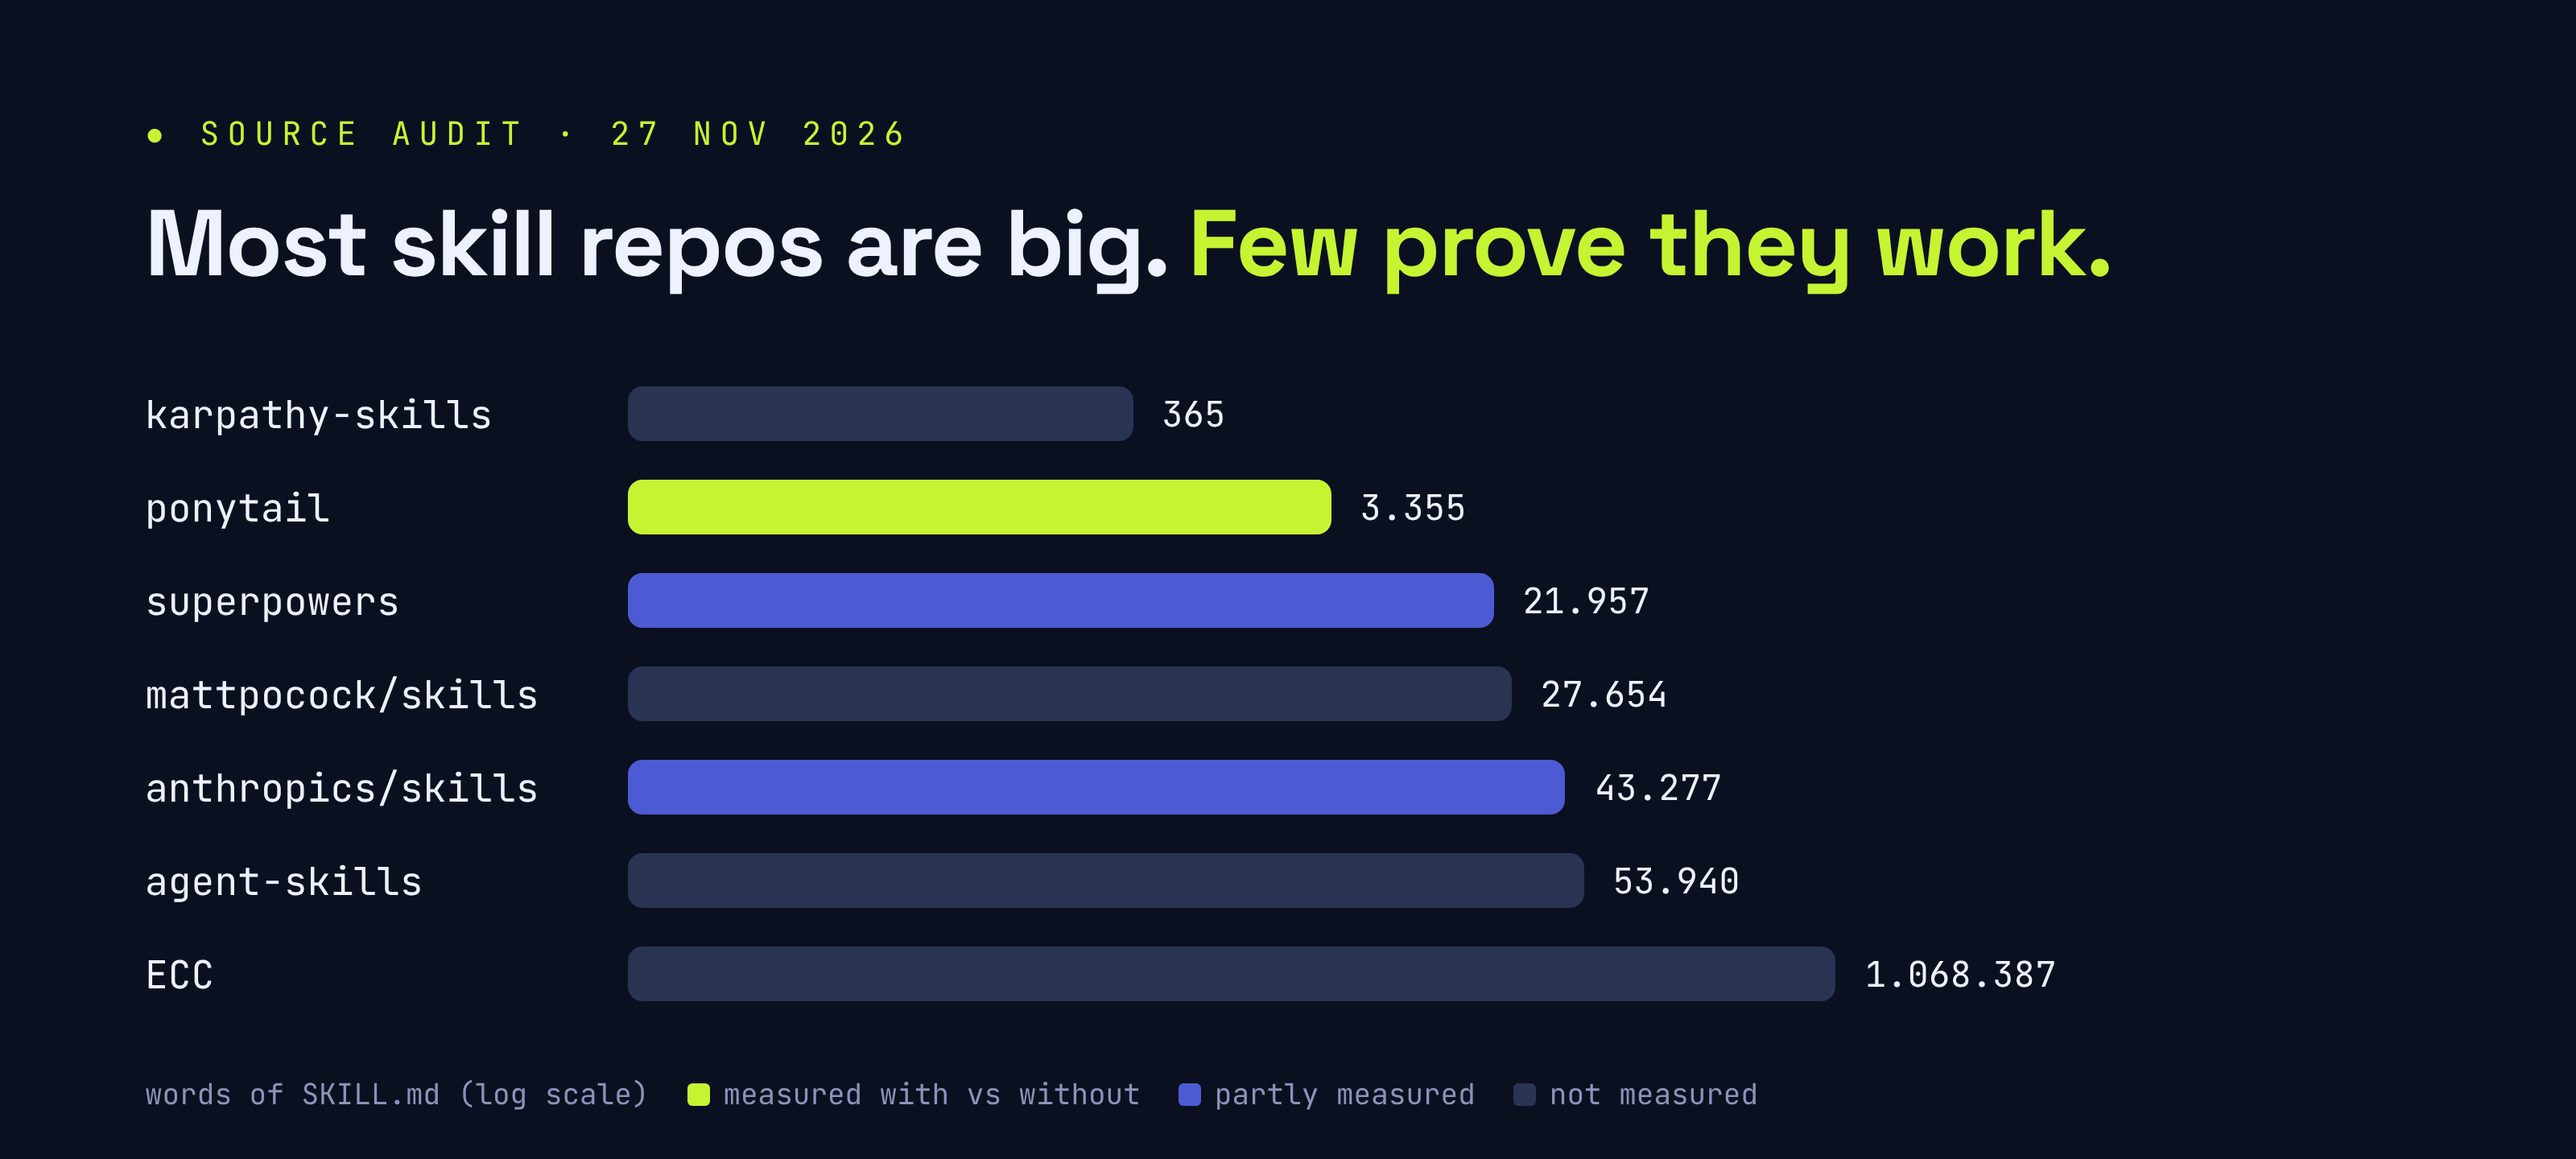
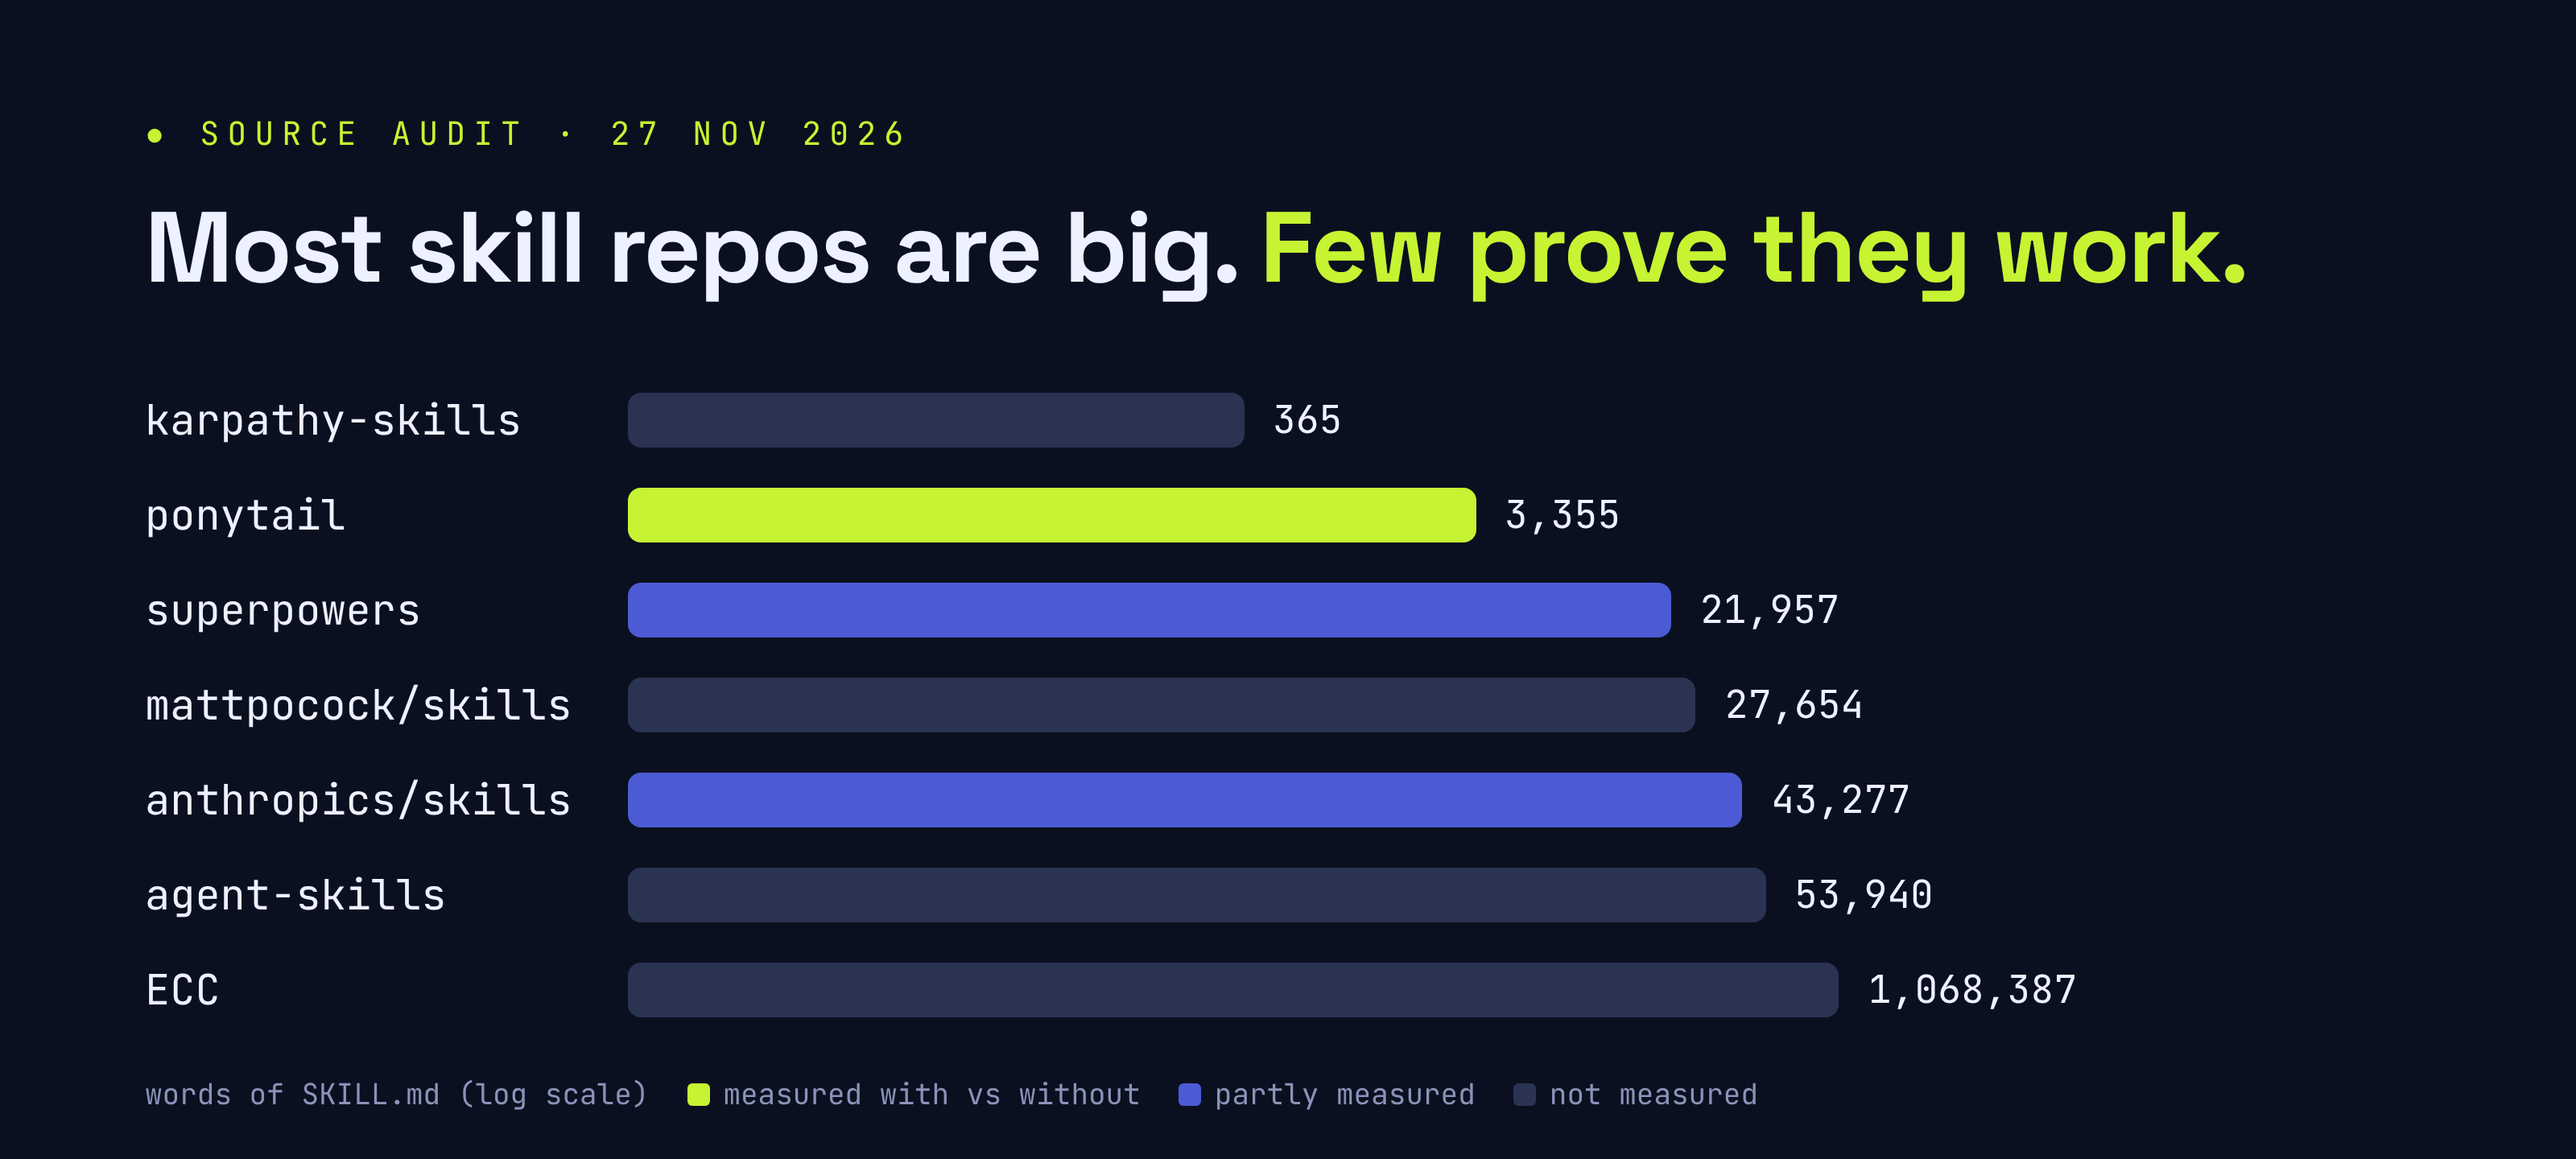
docs: source audit in English (AUDIT.md), chart numbers in English format
Claude-Session: https://claude.ai/code/session_01MhdcU1wu3qNtnw5sD71sQn

diff --git a/brand/audit.html b/brand/audit.html
@@ -1,0 +1,12 @@
+<!doctype html><html><head><meta charset="utf-8">
+<link href="https://fonts.googleapis.com/css2?family=Space+Grotesk:wght@500;700&family=JetBrains+Mono:wght@400;600&display=block" rel="stylesheet">
+<style>html,body{margin:0;width:1600px;background:#0B1020;color:#EEF1FF;font-family:'Space Grotesk',sans-serif}
+.c{padding:70px 90px}.tag{font-family:'JetBrains Mono';letter-spacing:.25em;color:#C6F432;font-size:20px}
+h1{font-size:62px;margin:18px 0 50px;letter-spacing:-.02em}h1 span{color:#C6F432}
+.r{display:flex;align-items:center;margin:0 0 24px}.n{width:300px;font-family:'JetBrains Mono';font-size:26px}
+.t{flex:1;display:flex;align-items:center;max-width:900px}.t i{display:block;height:34px;border-radius:8px}
+.t b{font-family:'JetBrains Mono';font-weight:400;font-size:24px;margin-left:18px;white-space:nowrap}
+.on{background:#C6F432}.mid{background:#4C5BD4}.off{background:#2A3352}
+.f{margin-top:36px;color:#8A93B8;font-family:'JetBrains Mono';font-size:18px}.k{display:inline-block;width:14px;height:14px;border-radius:3px;margin:0 8px 0 24px;vertical-align:-1px}</style></head>
+<body><div class="c"><div class="tag">● SOURCE AUDIT · 27 NOV 2026</div><h1>Most skill repos are big. <span>Few prove they work.</span></h1><div class="r"><span class="n">karpathy-skills</span><div class="t"><i class="off" style="width:42.5%"></i><b>365</b></div></div><div class="r"><span class="n">ponytail</span><div class="t"><i class="on" style="width:58.5%"></i><b>3,355</b></div></div><div class="r"><span class="n">superpowers</span><div class="t"><i class="mid" style="width:72.0%"></i><b>21,957</b></div></div><div class="r"><span class="n">mattpocock/skills</span><div class="t"><i class="off" style="width:73.7%"></i><b>27,654</b></div></div><div class="r"><span class="n">anthropics/skills</span><div class="t"><i class="mid" style="width:76.9%"></i><b>43,277</b></div></div><div class="r"><span class="n">agent-skills</span><div class="t"><i class="off" style="width:78.5%"></i><b>53,940</b></div></div><div class="r"><span class="n">ECC</span><div class="t"><i class="off" style="width:100.0%"></i><b>1,068,387</b></div></div>
+<div class="f">words of SKILL.md (log scale)<i class="k on"></i>measured with vs without<i class="k mid"></i>partly measured<i class="k off"></i>not measured</div></div></body></html>

diff --git a/docs/AUDIT.md b/docs/AUDIT.md
@@ -1,0 +1,55 @@
+# Source audit (27 Nov 2026)
+
+What each popular skills repo promises and what it can prove. Numbers come from each repo's own files.
+
+![Skill size and proof of results](img/audit.png)
+
+## Summary
+
+**Only 1 of 11 sources measures results with and without its skill (ponytail), and none proves the code gets more correct.** Almost all are large (20,000 to 1,000,000 words) and quote numbers without measurement. That is where Master Your Skills competes: short skills with measured gains.
+
+| Source | License | Skills | Words | Promises | Proves |
+|---|---|---|---|---|---|
+| ponytail | MIT | 6 | 3,355 | -53% code, -45% tokens, -26% cost | Yes: 39 tasks × 5 runs, Opus only. Correctness same as without (87/90 vs 86/90) |
+| agent-skills | MIT | 26 | 53,940 | "production-grade", spec → ship | Only structure and skill-selection tests (lexical). No with/without results |
+| mattpocock/skills | MIT | 39 | 27,654 | "real engineering", 30 s setup | Nothing measured. Per-repo setup required |
+| superpowers | MIT | 15 | 21,957 | full methodology, hours of autonomy | 1 task: -37% tokens. Evals in a separate repo |
+| ECC | MIT | 328 (+translations) | ~1,068,000 | "-60% cost", "80% of tasks" | 566 structure tests; no outcome numbers |
+| karpathy-skills | MIT (no file) | 1 | 365 | better behaviour from 4 rules | Nothing measured. Very easy to use |
+| anthropics/skills | Apache-2.0* | 19 | 43,277 | reference skills | With/without eval tool (skill-creator), no published results |
+| ui-ux-pro-max | MIT | 1 + data | n/a | 80 styles, 194 palettes | Counts verifiable; quality not measured |
+| graphify | Apache-2.0 | tool | n/a | code graph, less reading | Own benchmarks (82% vs 70.8% grep, n=6) |
+| cc-switch | MIT | app | n/a | switch provider in one click | App tests; not a skills repo |
+| dify | modified Apache | platform | n/a | AI apps | Not reusable (commercial restrictions) |
+
+\* `doc-coauthoring` has no license: not used.
+
+## 20 improvements for Master Your Skills
+
+**Proof**
+1. Publish a with/without benchmark for every skill: at least 5 runs per task, with a confidence interval.
+2. Measure correctness (hidden tests, planted bugs), not only size and tokens.
+3. Run on 3 models (Opus, Sonnet, Haiku), not just one.
+4. Numbers in the README only with a link to the results file.
+5. A new skill gets in only with an observed failure and a test that shows it; rejected changes are logged.
+
+**Fewer tokens**
+6. Each SKILL.md at most 500 words; the rest in files read only when needed.
+7. Merge duplicates: from 59 to about 25 skills (TDD, review, debugging, interviewing and other repeats).
+8. Heavy knowledge (design, slide styles) in searchable CSV tables, not prose.
+9. A context skill: read the glossary or code graph first instead of opening file after file.
+
+**Easy to use**
+10. One-command install in Claude Code and one .zip per skill for claude.ai.
+11. One entry skill, `start`, that picks the right skill for the request.
+12. Descriptions written as triggers (what + when) and tested to fire on their own.
+13. No names that clash with built-in Claude Code commands (the old `/review` did).
+14. One source file generates AGENTS.md, CLAUDE.md and Cursor rules, no hand copies.
+15. Short README without hype; a glossary with each skill's measured gain.
+
+**New capabilities**
+16. Office skills with Guided and Direct modes (speech, deck, email and 15 by role).
+17. Decks with a mandatory check: render, empty placeholders, fonts and minimum font size.
+18. A `parallel` skill: parallel agents only without shared state, writes in separate worktrees, two-stage review.
+19. Human approval only where it counts (spec and plan on large work).
+20. Automatic GitHub checks (frontmatter, size, links, install test) on every change.

diff --git a/README.md b/README.md
@@ -14,7 +14,7 @@
   <a href="#install-in-3-minutes">Install</a> ·
   <a href="#does-it-work">Benchmark</a> ·
   <a href="GLOSSARY.md">All skills</a> ·
-  <a href="docs/AUDITORIA.md">Source audit</a> ·
+  <a href="docs/AUDIT.md">Source audit</a> ·
   <a href="#faq">FAQ</a>
 </p>
 <p align="center"><img src="docs/img/hero.png" width="880" alt="Master Your Skills: short skills that prove they work"></p>
@@ -114,7 +114,7 @@ What each one does, when to use it, and its measured gain: **[GLOSSARY.md](GLOSS
 
 ## Why this repo
 
-We audited 11 popular skill and agent repos ([docs/AUDITORIA.md](docs/AUDITORIA.md)). Most are 20,000 to 1,000,000 words, and only one measures results with and without its skill. Here the rules are:
+We audited 11 popular skill and agent repos ([docs/AUDIT.md](docs/AUDIT.md)). Most are 20,000 to 1,000,000 words, and only one measures results with and without its skill. Here the rules are:
 
 1. **Measured, not promised.** A number appears in this README only if a results file backs it.
 2. **Short.** One read per skill. Extra detail sits in a `reference.md` that loads only when needed.
